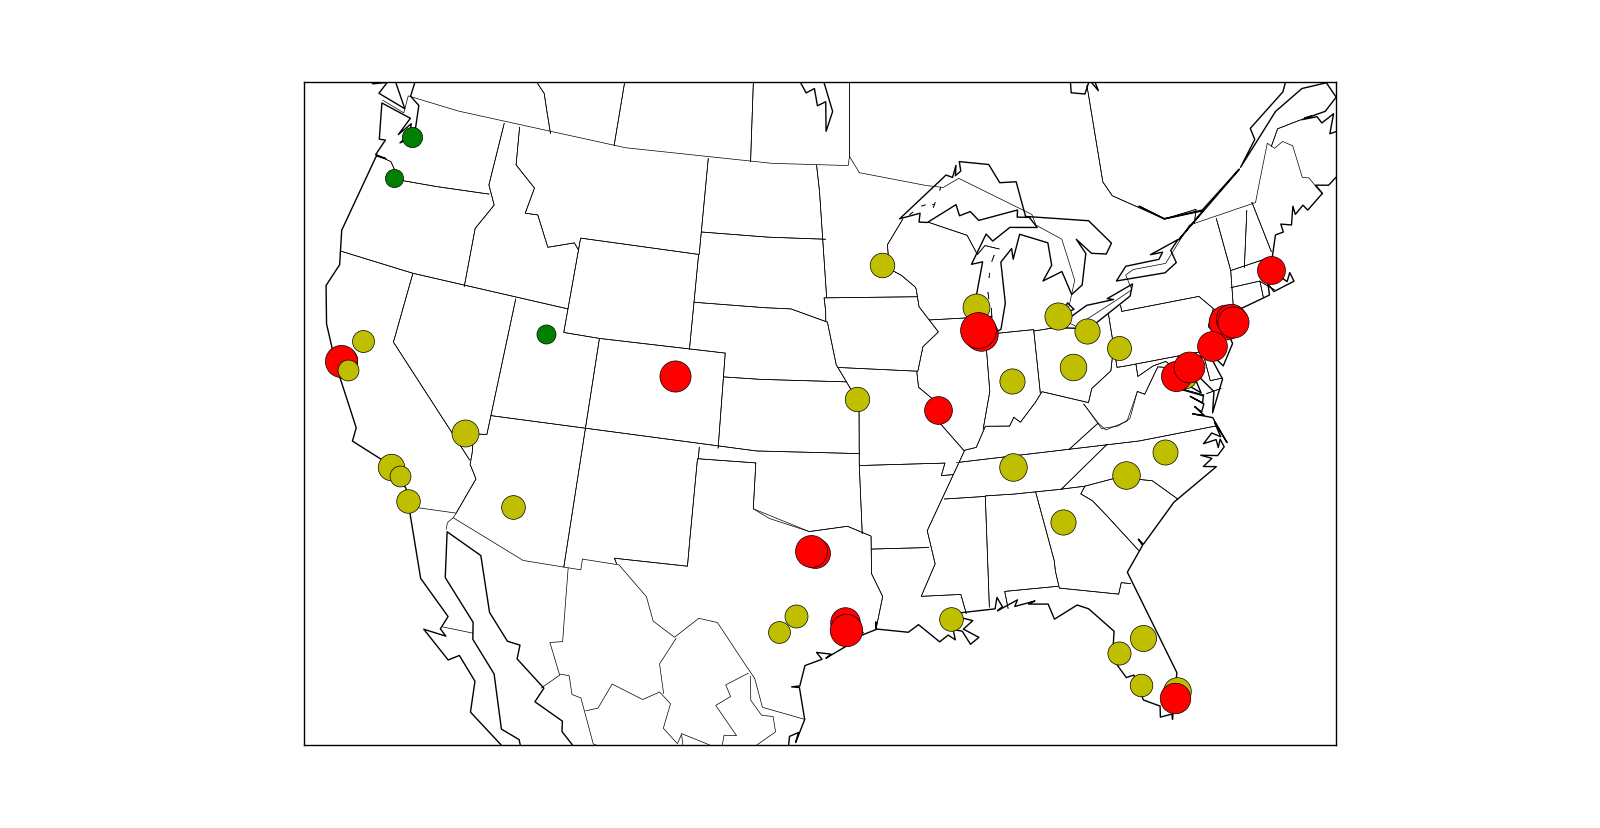
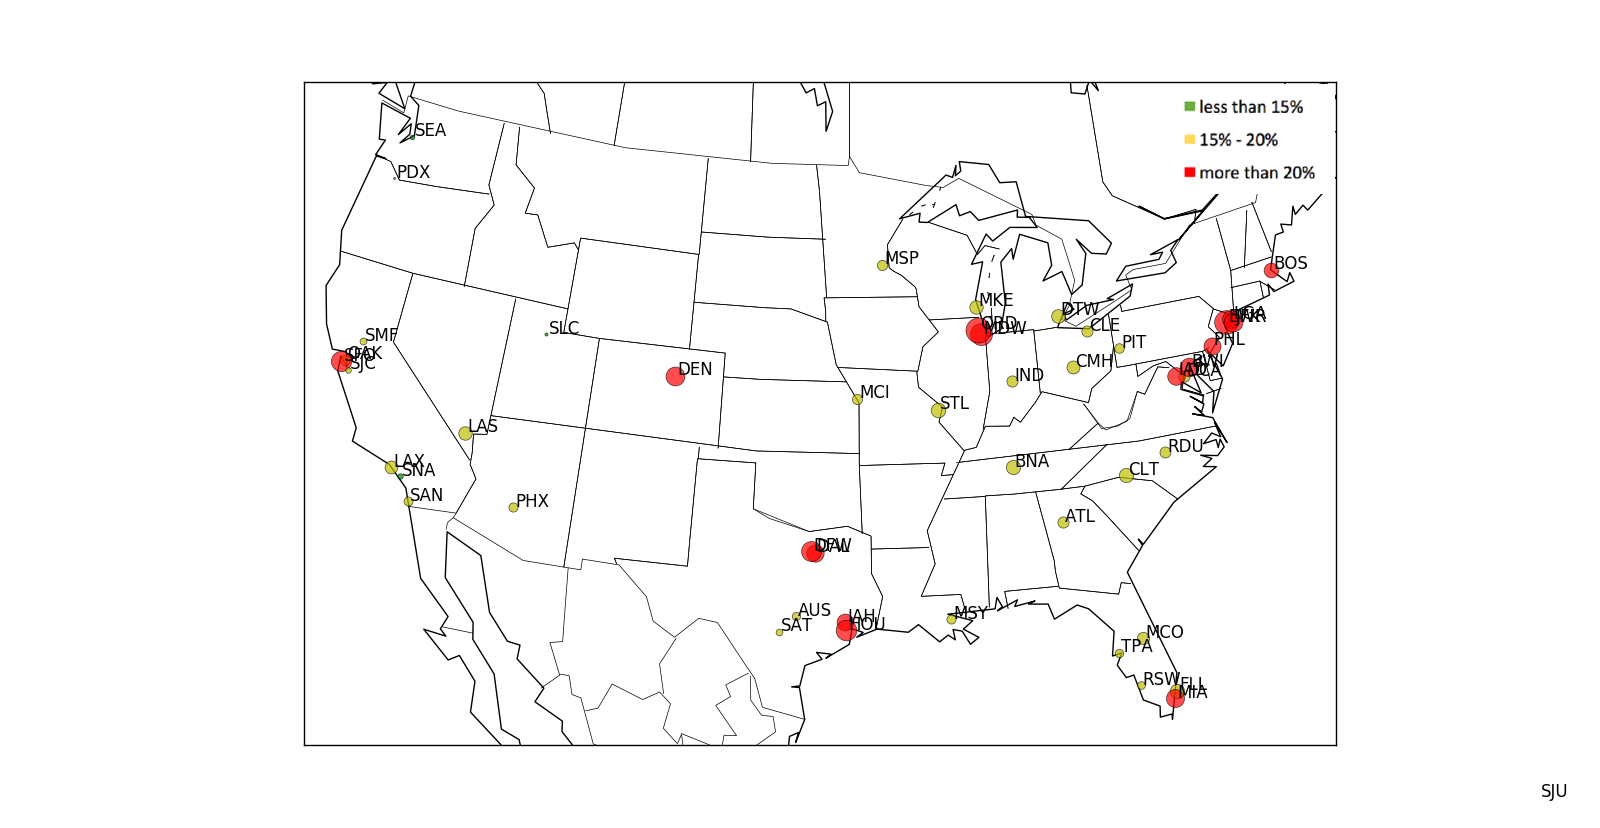
Updated delay ratio map
Added labels
Normalized ratio value

diff --git a/draw_map.py b/draw_map.py
@@ -2,20 +2,23 @@ from mpl_toolkits.basemap import Basemap
 import matplotlib.pyplot as plt
 import numpy as np
 import matplotlib.animation as animation
+import matplotlib.patches as mpatches
 from process import processdata
 import pandas as pd
 import os
 
+
+
 os.chdir('/Users/shushenglu/codes/Predict_Airline_Delay/')
 
-top_50_airports = ['ATL','LAX','ORD','DFW','JFK','DEN','SFO','CLT','LAS','PHX','IAH','MIA','SEA',
-                   'EWR','MCO','MSP','DTW','BOS','PHL','LGA','FLL','BWI','IAD','MDW','SLC','DCA',
-                   'HNL','SAN','TPA','PDX','STL','HOU','BNA','AUS','OAK','MCI','MSY','RDU','SJC',
-                   'SNA','DAL','SMF','SJU','SAT','RSW','PIT','CLE','IND','MKE','CMH']
+top_50_airports = ['ATL', 'LAX', 'ORD', 'DFW', 'JFK', 'DEN', 'SFO', 'CLT', 'LAS', 'PHX', 'IAH', 'MIA', 'SEA',
+                   'EWR', 'MCO', 'MSP', 'DTW', 'BOS', 'PHL', 'LGA', 'FLL', 'BWI', 'IAD', 'MDW', 'SLC', 'DCA',
+                   'HNL', 'SAN', 'TPA', 'PDX', 'STL', 'HOU', 'BNA', 'AUS', 'OAK', 'MCI', 'MSY', 'RDU', 'SJC',
+                   'SNA', 'DAL', 'SMF', 'SJU', 'SAT', 'RSW', 'PIT', 'CLE', 'IND', 'MKE', 'CMH']
 
 locations = pd.read_csv('other_files/airports.dat.txt', header=None, names=['id', 'name', 'city', 'country',
-                                                                             'airport_id', 'icao', 'lat', 'lot',
-                                                                             'altitude', 'timezone', 'dst', 'tz'])
+                                                                            'airport_id', 'icao', 'lat', 'lot',
+                                                                            'altitude', 'timezone', 'dst', 'tz'])
 
 locations = locations[locations['airport_id'].isin(top_50_airports)]
 
@@ -27,27 +30,30 @@ for file in files:
     df = processdata(file)
     ########### Total and Delay by Origin Airport #########
     grouped_total = df[['id', 'origin']].groupby('origin').count()
-    grouped_total.reset_index(level = 0,inplace= True)
+    grouped_total.reset_index(level=0, inplace=True)
     grouped_total = grouped_total[grouped_total['origin'].isin(top_50_airports)]
-    grouped_total.columns = ['airport_id','total' + file[7:11]]
+    grouped_total.columns = ['airport_id', 'total' + file[7:11]]
 
     grouped_delay = df[df.arr_del15 == 1][['id', 'origin']].groupby('origin').count()
-    grouped_delay.reset_index(level = 0,inplace= True)
+    grouped_delay.reset_index(level=0, inplace=True)
     grouped_delay = grouped_delay[grouped_delay['origin'].isin(top_50_airports)]
-    grouped_delay.columns = ['airport_id','delay' + file[7:11]]
+    grouped_delay.columns = ['airport_id', 'delay' + file[7:11]]
 
-    locations = locations.merge(grouped_total, on='airport_id').merge(grouped_delay, on ='airport_id')
+    locations = locations.merge(grouped_total, on='airport_id').merge(grouped_delay, on='airport_id')
     # release memory spacel
     del df
 
-print (locations)
-locations['total'] = locations['total2010'] +locations['total2011']+locations['total2012']+locations['total2013']+\
-    locations['total2014']+locations['total2015']
+print(locations)
+locations['total'] = locations['total2010'] + locations['total2011'] + locations['total2012'] + locations['total2013'] + \
+                     locations['total2014'] + locations['total2015']
 
-locations['delay'] = locations['delay2010'] +locations['delay2011']+locations['delay2012']+locations['delay2013']+\
-    locations['delay2014']+locations['delay2015']
+locations['delay'] = locations['delay2010'] + locations['delay2011'] + locations['delay2012'] + locations['delay2013'] + \
+                     locations['delay2014'] + locations['delay2015']
 
-locations['delay_ratio'] = locations['delay']/locations['total']
+locations['delay_ratio'] = locations['delay'] / locations['total']
+
+### read airport delay ratio csv file
+locations = pd.read_csv('/Users/shushenglu/GitHub/Predict-Airline-Delay/statistics-results/airport_delay_ratio.csv')
 
 ### Map Visualization
 fig = plt.figure()
@@ -60,34 +66,36 @@ m.drawcoastlines()
 m.drawstates()
 m.drawcountries()
 
-
 # total_by_carrier = pd.DataFrame()
 # delay_by_carrier = pd.DataFrame()
 
-loc = locations[['delay_ratio','lot', 'lat','airport_id']]
+loc = locations[['delay_ratio', 'lot', 'lat', 'airport_id']]
 lons = loc['lot'].tolist()
 lats = loc['lat'].tolist()
 ratios = loc['delay_ratio'].tolist()
 labels = loc['airport_id'].tolist()
 
+
 def get_marker_color(ratio):
-    if ratio < 0.15:
+    if ratio < 0.3:
         return ('go')
-    elif ratio < 0.2:
+    elif ratio < 0.624:
         return ('yo')
     else:
         return ('ro')
 
-min_marker_size = 100
+
+ratio_min = min(ratios)
+ratio_max = max(ratios)
+ratios = [(x - ratio_min) / (ratio_max - ratio_min) for x in ratios]
+min_marker_size = 20
 for lon, lat, ratio in zip(lons, lats, ratios):
-    x,y = m(lon, lat)
-    msize = ratio * min_marker_size
+    x, y = m(lon, lat)
+    msize = (ratio - 0.1) * min_marker_size
     mcolor = get_marker_color(ratio)
-    m.plot(x, y, mcolor, markersize=msize)
+    m.plot(x, y, mcolor, alpha=0.7, markersize=msize)
 
-
-
-### Add labels
-# x,y = m(lons, lats)
-# for label, xpt, ypt in zip(labels, x, y):
-#     plt.text(xpt+10000, ypt+5000, label)
+### Add labels of 10 most delayed
+x, y = m(lons, lats)
+for label, xpt, ypt in zip(labels, x, y):
+    plt.text(xpt + 10000, ypt + 5000, label)
